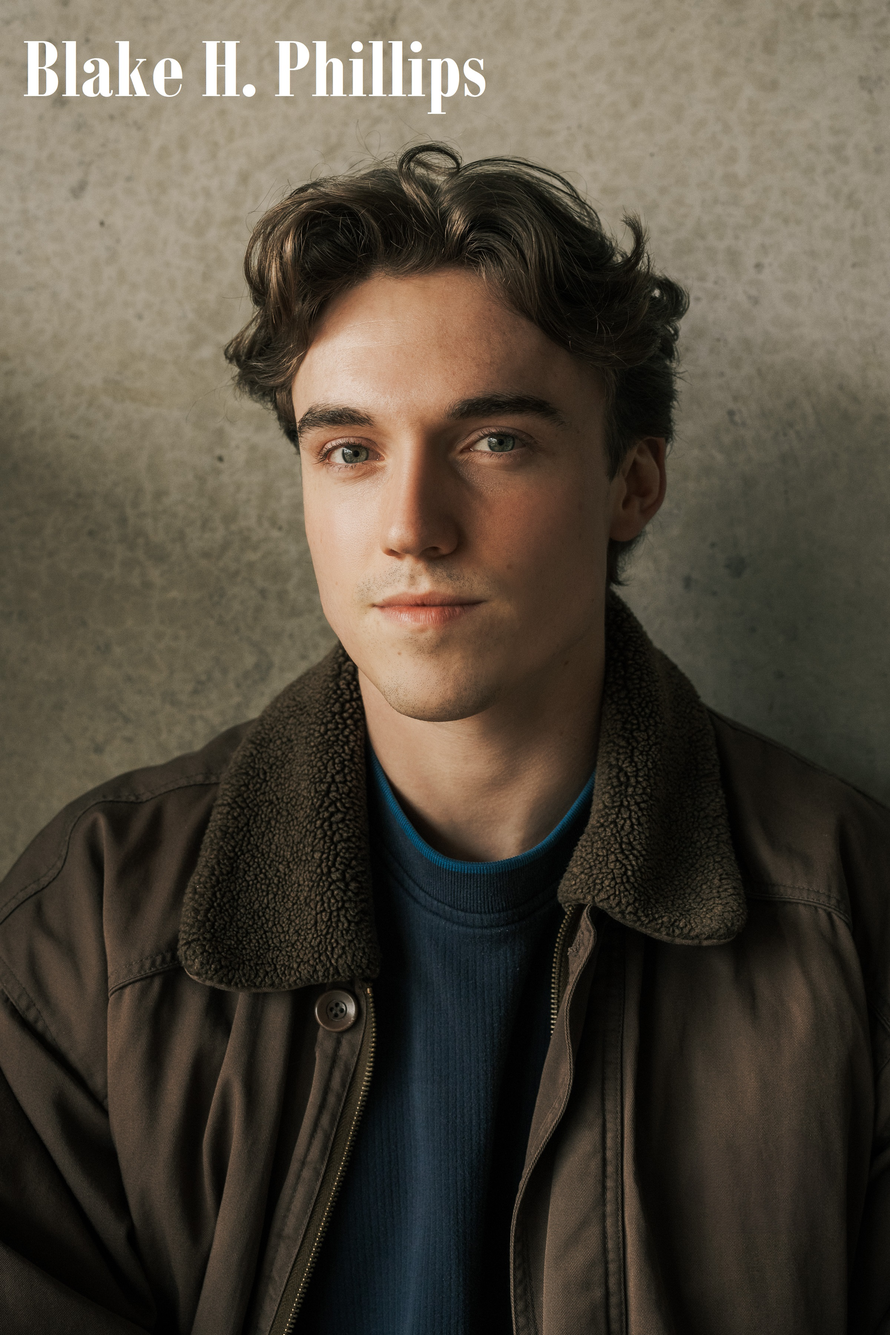
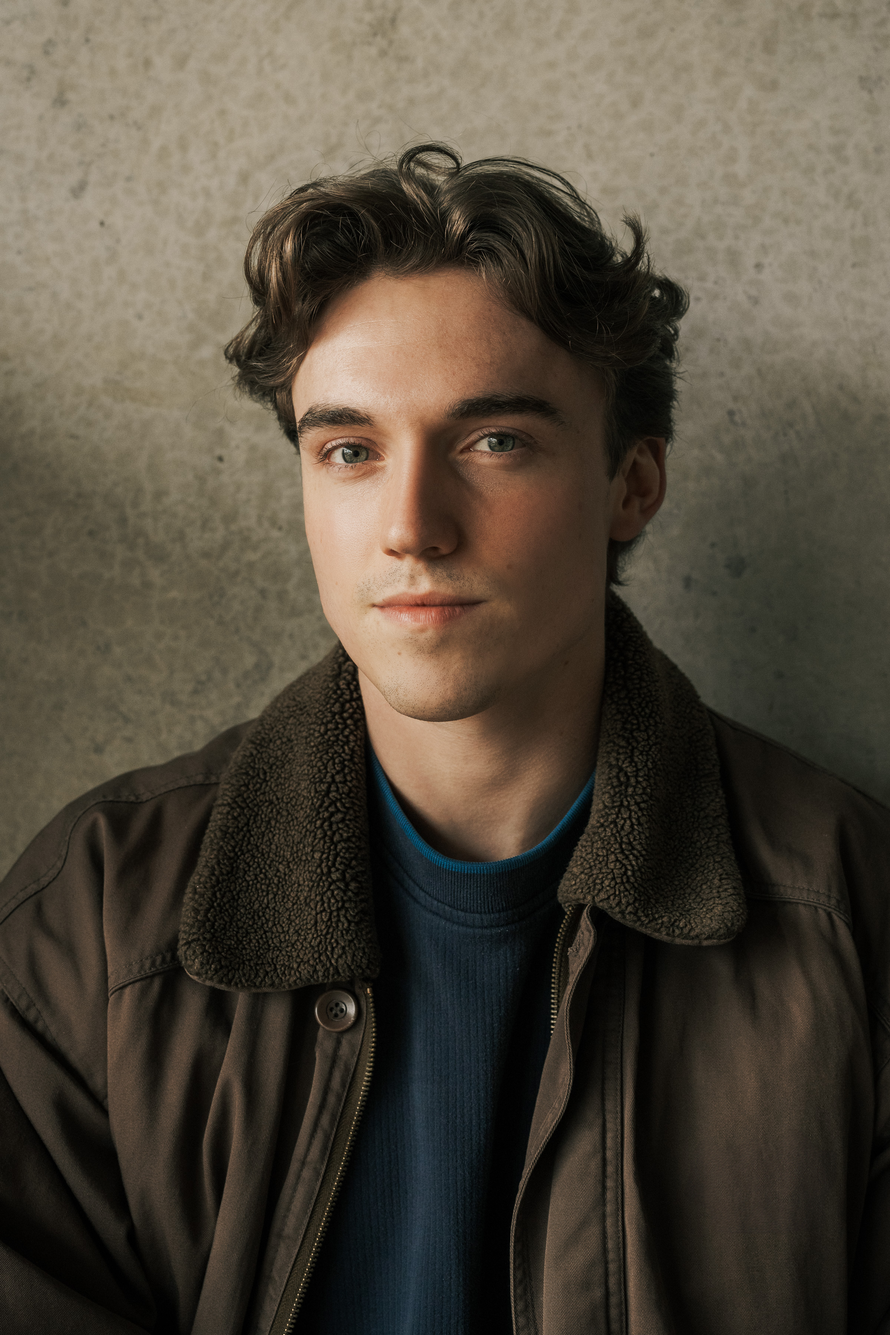
More CSS Fixes

Changed region(s): [[0.3125, 0.0311, 0.5625, 0.0933], [0.0312, 0.0311, 0.2812, 0.0933]]

diff --git a/acting-site/src/components/MainPage.vue b/acting-site/src/components/MainPage.vue
@@ -3,16 +3,32 @@
     <div class="main-container">
         <div class="container-one">
             <div class="profile">
-                <img src="../assets/Blake H. Phillips Headshot.jpg" alt="" class="">
                 <h1>Blake H. Phillips</h1>
-                <p>Actor | Writer</p>
+                <img src="../assets/Blake H. Phillips Headshot.jpg" alt="" class="">
             </div>
             <div class="button-container">
                 <div class="demos-button">
-                    <a href="">Demo Footage and Character Clips</a>
+                    <a href="">Demo Footage and Clips</a>
                 </div>
                 <div class="demos-button">
-                    <a href="">Acting Resume</a>
+                    <a href="">Resume</a>
+                </div>
+            </div>
+            <div class="external-links">
+                <h1>Socials</h1>
+                <div class="socials">
+                    <a href="">
+                        <img src="../assets/imdb.png" alt="">
+                    </a>
+                    <a href="">
+                        <img src="../assets/ig.png" alt="">
+                    </a>
+                    <a href="">
+                        <img src="../assets/yt.png" alt="">
+                    </a>
+                    <a href="">
+                        <img src="../assets/li.png" alt="">
+                    </a>
                 </div>
             </div>
         </div>
@@ -36,23 +52,6 @@
                     
                 </div>
             </div>
-            <div class="external-links">
-                <h1>Socials</h1>
-                <div class="socials">
-                    <a href="">
-                        <img src="../assets/imdb.png" alt="">
-                    </a>
-                    <a href="">
-                        <img src="../assets/ig.png" alt="">
-                    </a>
-                    <a href="">
-                        <img src="../assets/yt.png" alt="">
-                    </a>
-                    <a href="">
-                        <img src="../assets/li.png" alt="">
-                    </a>
-                </div>
-            </div>
         </div>
     </div>
     
@@ -74,41 +73,47 @@ export default {
     .main-container{
         display: flex;
         flex-direction: row;
-        background-color: #e4d6d6 ;
+        background-color: #96C5F7  ;
         border-radius: 25px;
     }
     .container-one{
-        background-color: rgb(130, 184, 255);
+        background-color: #304C89;
         width: 30%;
         padding: .5%;
         border-radius: 25px;
+        margin: .5%;
+    }
+    .profile h1{
+        color: #f2f4ff;
+        font-family: "Bodoni MT Condensed", serif;
+        font-size: 2.8rem;
     }
     .profile img{
         height: 40rem;
     }
-    .profile p{
-        font-size: 1.2rem;
-    }
     .button-container{
         display: flex;
-        flex-direction: column;
+        flex-direction: row;
         justify-content: center;
         align-items: center;
     }
     .demos-button{
-        background-color: rgb(59, 144, 255);
+        background-color: #595758;
         margin: 2%;
         padding: 12px;
         border-radius: 15px;
+        width: 100%;
     }
     .demos-button a{
         text-decoration: none;
-        color: #2c3e50;
+        color: #f2f4ff;
+        align-items: center;
+        justify-content: center;
     }
     .container-two{
-        background-color: rgb(184, 247, 226);
+        background-color: #F2F4FF;
         width: 70%;
-        margin: 2.5%;
+        margin: 0.5%;
         border-radius: 25px;
     }
     .about-me{

diff --git a/acting-site/src/App.vue b/acting-site/src/App.vue
@@ -20,6 +20,5 @@ export default {
   -moz-osx-font-smoothing: grayscale;
   text-align: center;
   color: #2c3e50;
-  margin-top: 60px;
 }
 </style>
